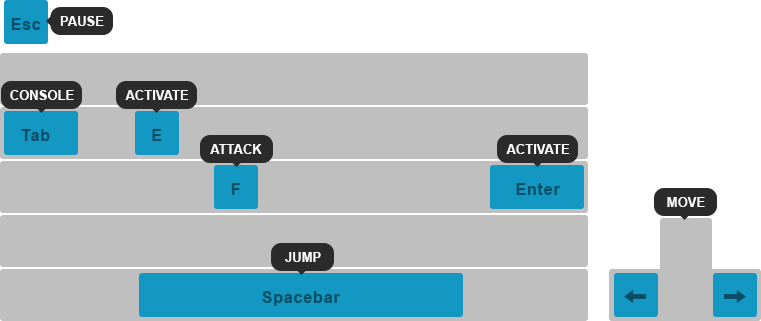
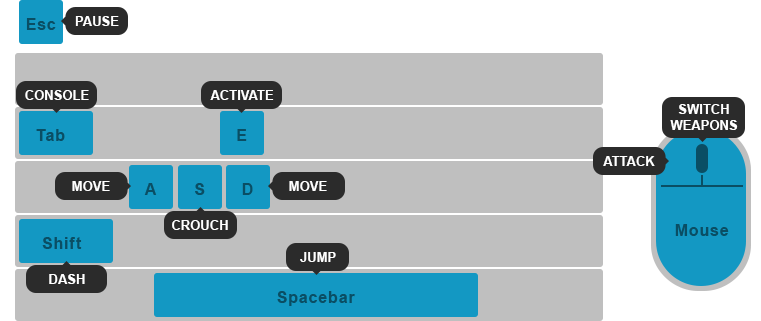
Preparing for v0.4
* Updated keyboard image layout
* Players now start with a PISTOL, AIs still start with random weapon

diff --git a/js/GameObjects/Pawn/Controllers/PlayerController.js b/js/GameObjects/Pawn/Controllers/PlayerController.js
@@ -25,7 +25,7 @@ class PlayerController extends Controller {
         raw.maxv=300;
         this.oid=raw.i||0;
         
-        this.pawn=new Pawn(raw,()=>{return this.canDoubleJump;});
+        this.pawn=new Pawn(raw);
         this.pawn.mind=this;
         this.pawn.jumpCooldownAmt=0;
         this.friend=true;
@@ -35,13 +35,15 @@ class PlayerController extends Controller {
         this.canDoubleJump=false;
         this.canWallJump=()=>{return false;};
 
-        this.weapon((PlayerController.data.weapon)?PlayerController.data.weapon:this.pawn.weapon);
+        
         if(Game.DEVMODE){
             this.weapon(new Weapon({t:Weapon.Type.WEAK}));
             this.weapon(new Weapon({t:Weapon.Type.RIFLE}));
             this.weapon(new Weapon({t:Weapon.Type.SHOTGUN}));
             this.weapon(new Weapon({t:Weapon.Type.SMG}));
             this.weapon(new Weapon({t:Weapon.Type.ROCKET}));
+        } else {
+            this.weapon(new Weapon({t:Weapon.Type.WEAK}));
         }
     }
     serialize(){

diff --git a/js/GameObjects/Pawn/Controllers/AIController.js b/js/GameObjects/Pawn/Controllers/AIController.js
@@ -21,6 +21,8 @@ class AIController extends Controller {
             onDeath:Callback.from(raw.onDeath),
             onData:Callback.from(raw.onData),
         };
+
+        this.pawn.pickupWeapon(Weapon.random());
     }
     serialize(){
         var data={

diff --git a/js/GameObjects/Pawn/Pawn.js b/js/GameObjects/Pawn/Pawn.js
@@ -29,7 +29,6 @@ class Pawn {
         this.mind = null; // AIController or PlayerController
         
         this.weapons=[];
-        this.pickupWeapon(Weapon.random());
         this.aimAngle=0;
     }
     draw(){
